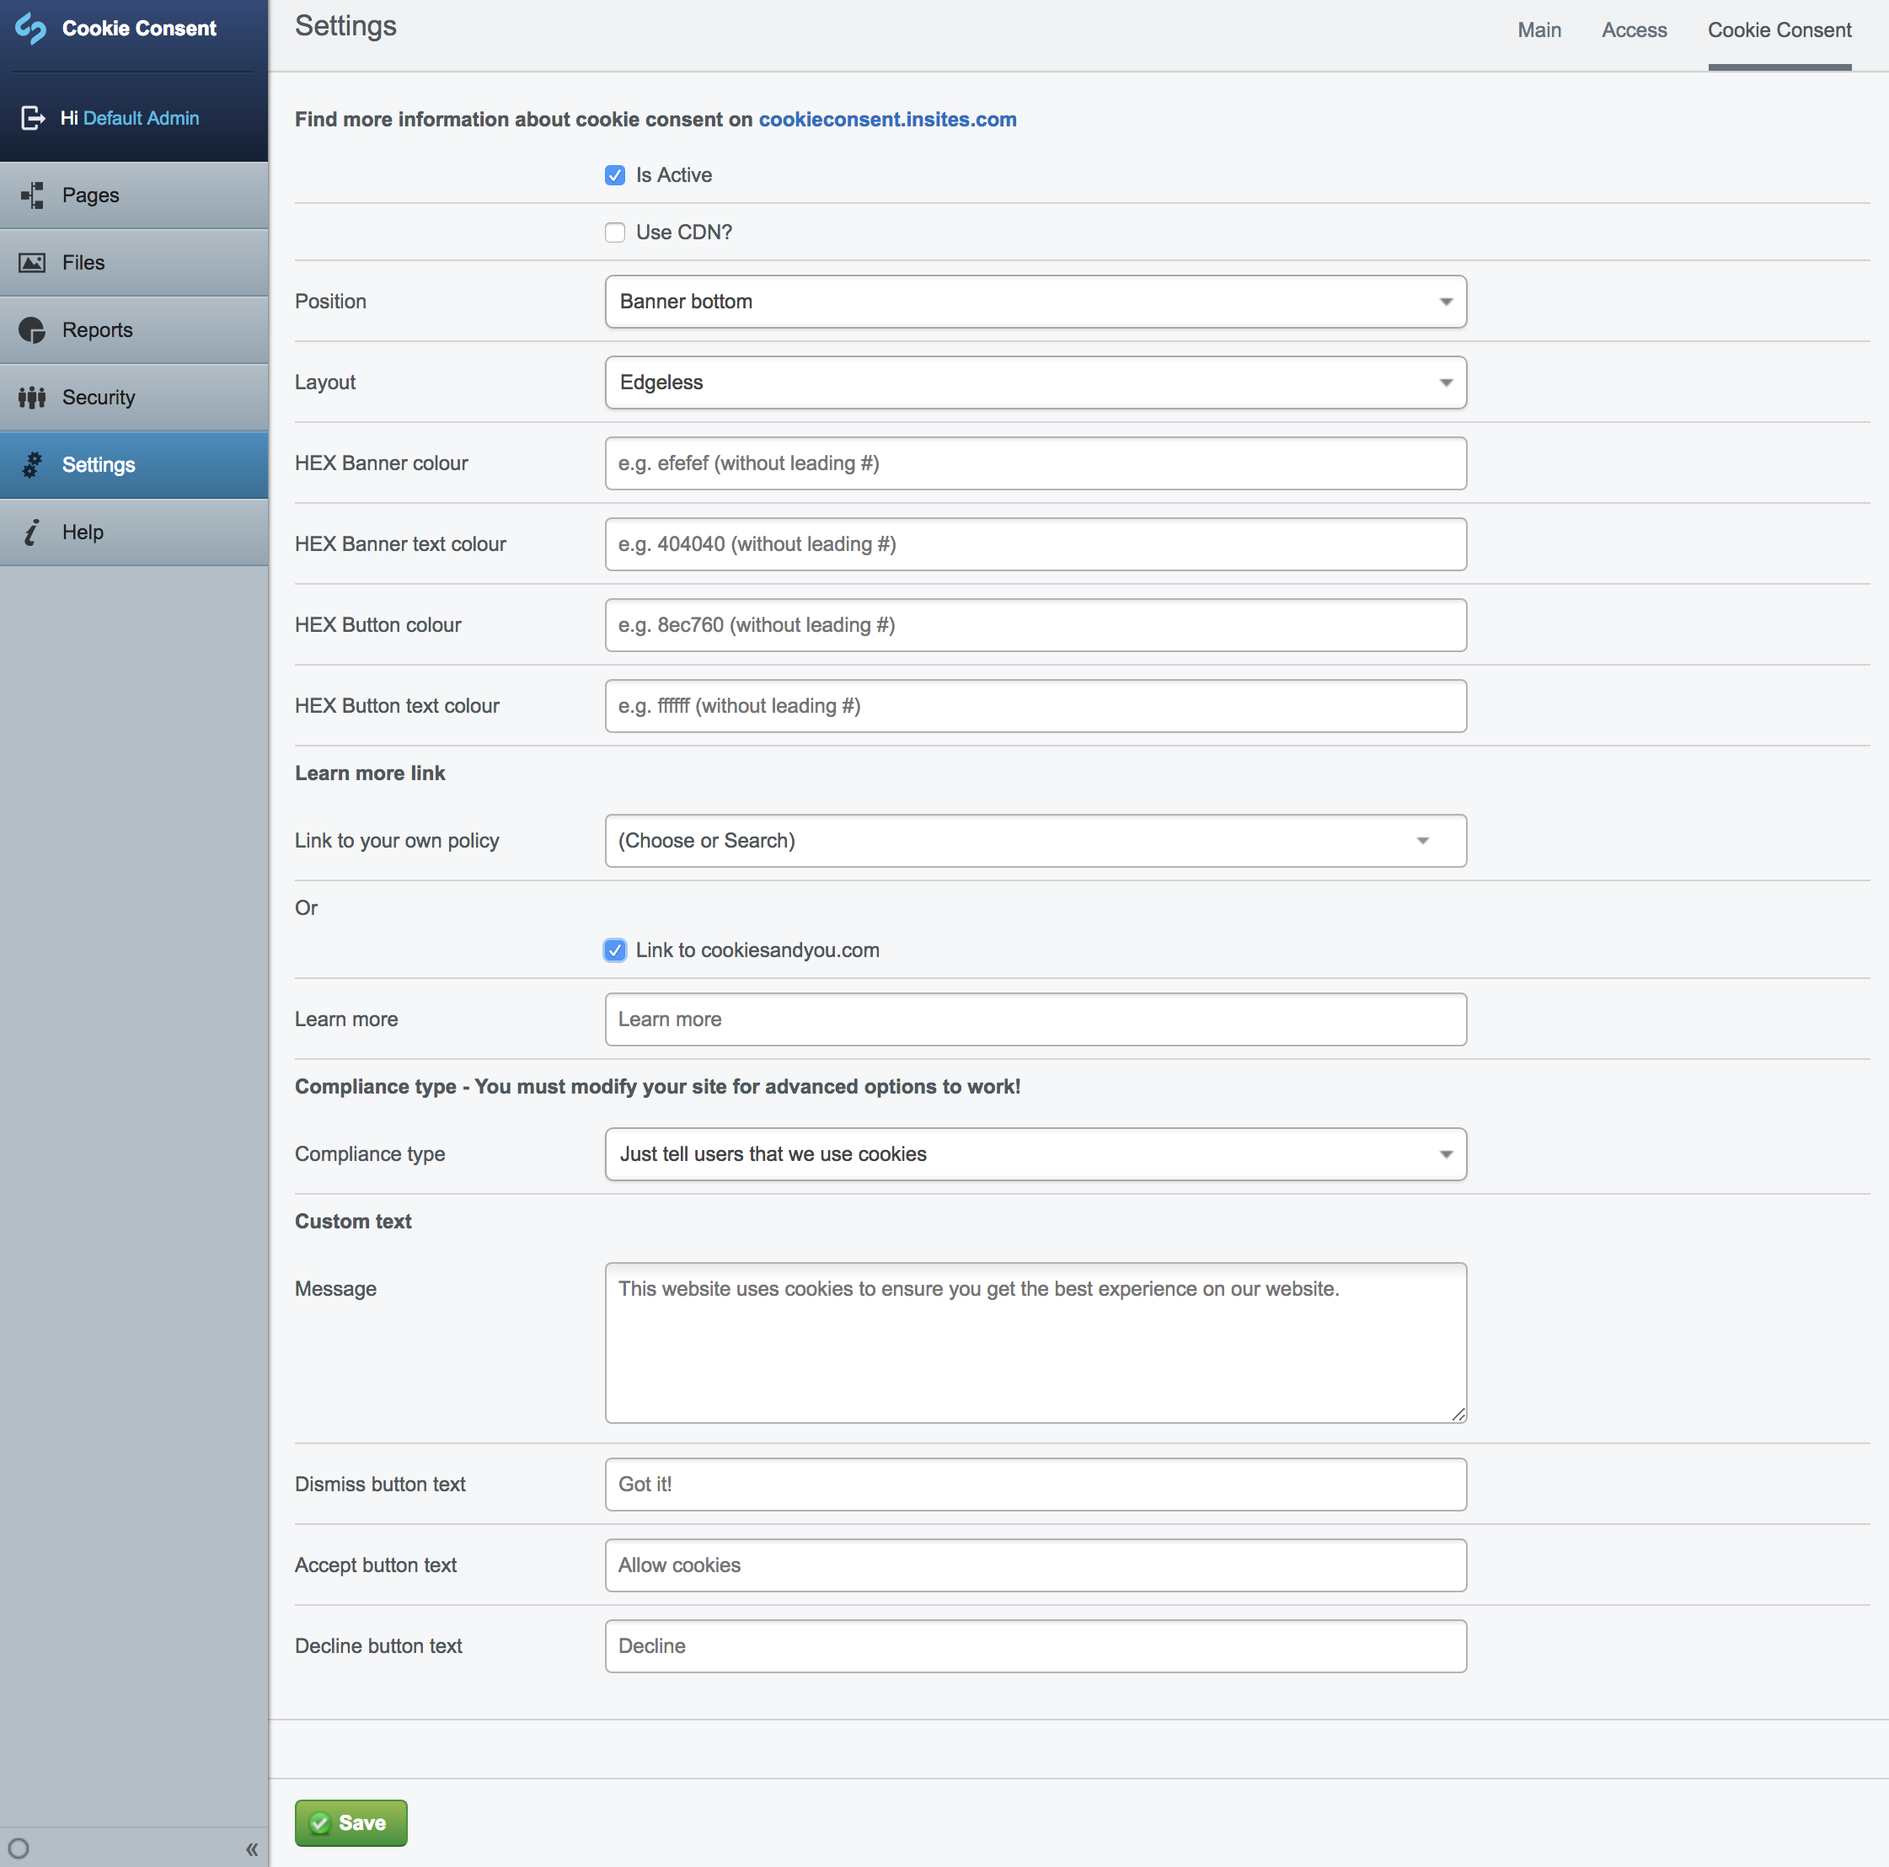
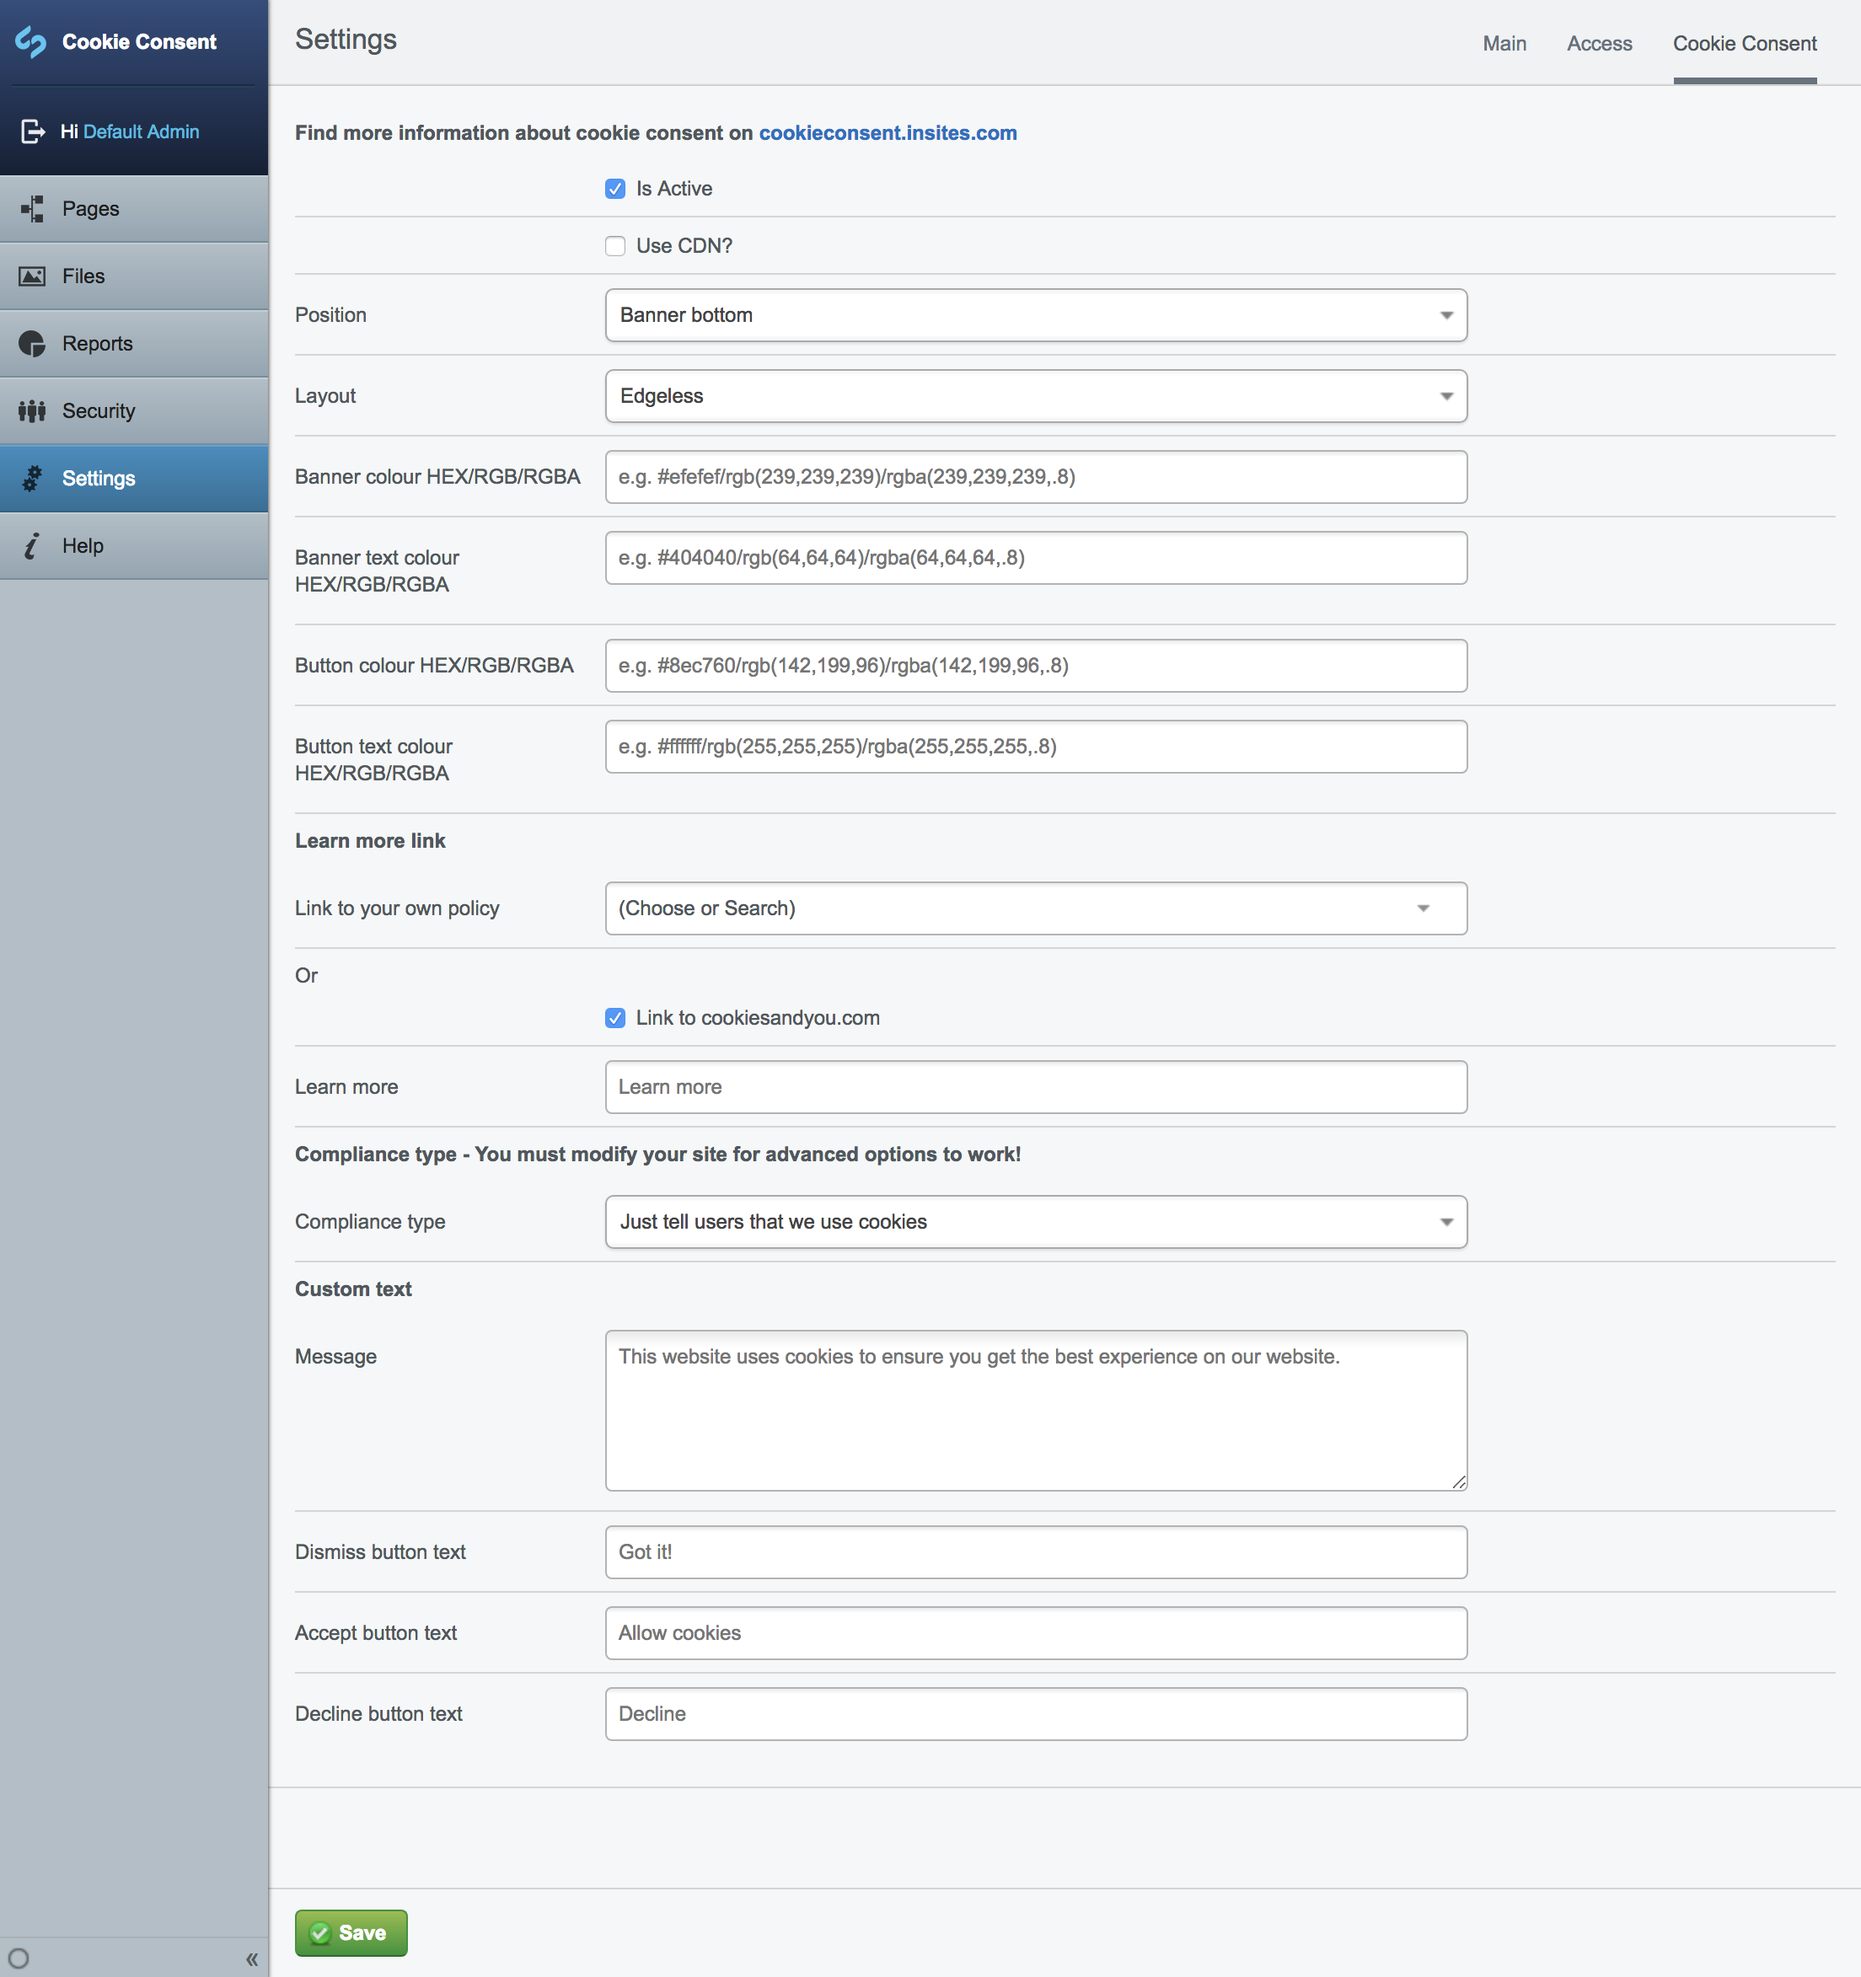
updated readme, updated image

diff --git a/README.md b/README.md
@@ -24,6 +24,29 @@ The Configuration is done via the `Settings` and the `Cookie Consent` tab.
 Please keep in mind that if you are using the advanced options you will have to ensure that the Cookies and there functionality
 act accordingly. With this module you are just setting the configuration for CookieConsent but it will not change the cookie behaviour.
 
+### Is Active
+
+Defines if the Module is in avtive state or notice.
+
+### Use CDN?
+
+If ticked the plugin will load the css/js from a CDN (cloudflare).
+
+### Position // Layout // Settings
+
+A demonstration on the effect of these parameters can be found on the download page at (https://cookieconsent.insites.com/download/).
+
+### Colours
+
+For the colours it is possible to use HEX Values with leading # or RGBA Values (like rgba(64,64,64,.8) to include some transparency).
+
+### Compliance Type - Advanced
+
+Please be aware that you can configure the advanced versions via the Site Configuration. But this will have no effect to your website. If you are planning to use the opt-in or opt-out version of this module you will have to ensure on your own that the website works accordingly.
+
+## Translations
+
+The plugin will be delivered with an english and german language file. If you create additional language files please feel free to share them with us. We will be happy to include them in the repository.
 
 ## Todo
 
